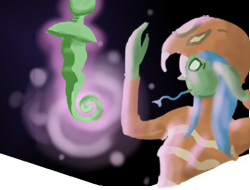
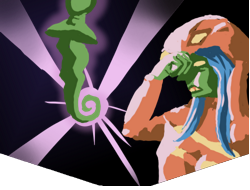
Beta art can now be added to cards.

diff --git a/src/main/java/theMarked/cards/Abjuration.java b/src/main/java/theMarked/cards/Abjuration.java
@@ -1,5 +1,9 @@
 package theMarked.cards;
 
+import basemod.ReflectionHacks;
+import basemod.abstracts.CustomCard;
+import com.badlogic.gdx.graphics.Texture;
+import com.badlogic.gdx.graphics.g2d.TextureAtlas;
 import com.megacrit.cardcrawl.actions.AbstractGameAction;
 import com.megacrit.cardcrawl.actions.common.ApplyPowerAction;
 import com.megacrit.cardcrawl.actions.common.DamageAction;
@@ -7,6 +11,7 @@ import com.megacrit.cardcrawl.cards.DamageInfo;
 import com.megacrit.cardcrawl.characters.AbstractPlayer;
 import com.megacrit.cardcrawl.core.CardCrawlGame;
 import com.megacrit.cardcrawl.dungeons.AbstractDungeon;
+import com.megacrit.cardcrawl.helpers.ImageMaster;
 import com.megacrit.cardcrawl.localization.CardStrings;
 import com.megacrit.cardcrawl.monsters.AbstractMonster;
 import com.megacrit.cardcrawl.powers.MinionPower;
@@ -19,7 +24,7 @@ import java.util.Iterator;
 
 import static theMarked.DefaultMod.makeCardPath;
 
-public class Abjuration extends AbstractDynamicCard {
+public class Abjuration extends AbstractMarkedCard {
 
     /*
      * Wiki-page: https://github.com/daviscook477/BaseMod/wiki/Custom-Cards
@@ -31,6 +36,7 @@ public class Abjuration extends AbstractDynamicCard {
 
     public static final String ID = DefaultMod.makeID(Abjuration.class.getSimpleName());
     public static final String IMG = makeCardPath("Attack_Abjuration.png");
+    public static final String IMG_beta = makeCardPath("Attack_Abjuration_beta.png");
 
     private static final CardStrings cardStrings = CardCrawlGame.languagePack.getCardStrings(ID);
     public static final String UPGRADE_DESCRIPTION = cardStrings.UPGRADE_DESCRIPTION;
@@ -55,9 +61,26 @@ public class Abjuration extends AbstractDynamicCard {
 
     public Abjuration() {
         super(ID, IMG, COST, TYPE, COLOR, RARITY, TARGET);
+        DefaultMod.loadJokeCardImage(this,IMG_beta);
         baseDamage = DAMAGE;
         baseMagicNumber = MAGIC_NUMBER;
         magicNumber = MAGIC_NUMBER;
+    }
+
+    public void loadBetaImage(String img) {
+        Texture cardTexture;
+        if (imgMap.containsKey(img)) {
+            cardTexture = (Texture)imgMap.get(img);
+        } else {
+            cardTexture = ImageMaster.loadImage(img);
+            imgMap.put(img, cardTexture);
+        }
+
+        cardTexture.setFilter(Texture.TextureFilter.Linear, Texture.TextureFilter.Linear);
+        int tw = cardTexture.getWidth();
+        int th = cardTexture.getHeight();
+        TextureAtlas.AtlasRegion cardImg = new TextureAtlas.AtlasRegion(cardTexture, 0, 0, tw, th);
+        ReflectionHacks.setPrivateInherited(this, CustomCard.class, "jokePortrait", cardImg);
     }
 
     // Actions the card should do.

diff --git a/src/main/java/theMarked/cards/AbstractMarkedCard.java b/src/main/java/theMarked/cards/AbstractMarkedCard.java
@@ -1,0 +1,47 @@
+package theMarked.cards;
+
+import basemod.abstracts.CustomCard;
+import com.badlogic.gdx.graphics.Texture;
+import com.megacrit.cardcrawl.cards.AbstractCard;
+import com.megacrit.cardcrawl.core.Settings;
+import com.megacrit.cardcrawl.unlock.UnlockTracker;
+import theMarked.DefaultMod;
+import theMarked.util.TextureLoader;
+
+import static com.megacrit.cardcrawl.core.CardCrawlGame.languagePack;
+
+public abstract class AbstractMarkedCard extends AbstractDynamicCard {
+    public String betaArtPath;
+
+    public AbstractMarkedCard(final String id,
+                               final String img,
+                               final int cost,
+                               final AbstractCard.CardType type,
+                               final AbstractCard.CardColor color,
+                               final AbstractCard.CardRarity rarity,
+                               final AbstractCard.CardTarget target) {
+
+        super(id, img, cost, type, color, rarity, target);
+    }
+
+    @Override
+    protected Texture getPortraitImage() {
+        if (Settings.PLAYTESTER_ART_MODE || UnlockTracker.betaCardPref.getBoolean(this.cardID, false)) {
+            if (this.textureImg == null) {
+                return null;
+            } else {
+                if (betaArtPath != null) {
+                    int endingIndex = betaArtPath.lastIndexOf(".");
+                    String newPath = betaArtPath.substring(0, endingIndex) + "_p" + betaArtPath.substring(endingIndex);
+                    System.out.println("Finding texture: " + newPath);
+
+                    Texture portraitTexture;
+                    portraitTexture = TextureLoader.getTexture(newPath);
+
+                    return portraitTexture;
+                }
+            }
+        }
+        return super.getPortraitImage();
+    }
+}

diff --git a/src/main/java/theMarked/DefaultMod.java b/src/main/java/theMarked/DefaultMod.java
@@ -6,16 +6,19 @@ import com.badlogic.gdx.Gdx;
 import com.badlogic.gdx.files.FileHandle;
 import com.badlogic.gdx.graphics.Color;
 import com.badlogic.gdx.graphics.Texture;
+import com.badlogic.gdx.graphics.g2d.TextureAtlas;
 import com.evacipated.cardcrawl.mod.stslib.Keyword;
 import com.evacipated.cardcrawl.modthespire.lib.SpireConfig;
 import com.evacipated.cardcrawl.modthespire.lib.SpireInitializer;
 import com.google.gson.Gson;
+import com.megacrit.cardcrawl.cards.AbstractCard;
 import com.megacrit.cardcrawl.core.Settings;
 import com.megacrit.cardcrawl.helpers.CardHelper;
 import com.megacrit.cardcrawl.helpers.FontHelper;
 import com.megacrit.cardcrawl.localization.*;
 import org.apache.logging.log4j.LogManager;
 import org.apache.logging.log4j.Logger;
+import theMarked.cards.AbstractMarkedCard;
 import theMarked.characters.TheMarked;
 import theMarked.potions.ChargePotion;
 import theMarked.potions.LevitatePotion;
@@ -506,7 +509,19 @@ public class DefaultMod implements
             }
         }
     }
-    
+
+    public static void loadJokeCardImage(AbstractCard card, String img) {
+        if (card instanceof AbstractMarkedCard) {
+            ((AbstractMarkedCard) card).betaArtPath = img;
+        }
+        Texture cardTexture;
+        cardTexture = TextureLoader.getTexture(img);
+        cardTexture.setFilter(Texture.TextureFilter.Linear, Texture.TextureFilter.Linear);
+        int tw = cardTexture.getWidth();
+        int th = cardTexture.getHeight();
+        TextureAtlas.AtlasRegion cardImg = new TextureAtlas.AtlasRegion(cardTexture, 0, 0, tw, th);
+        ReflectionHacks.setPrivate(card, AbstractCard.class, "jokePortrait", cardImg);
+    }
     // ================ /LOAD THE KEYWORDS/ ===================    
     
     // this adds "ModName:" before the ID of any card/relic/power etc.

diff --git a/src/main/java/theMarked/cards/ShockingTouch.java b/src/main/java/theMarked/cards/ShockingTouch.java
@@ -39,7 +39,7 @@ public class ShockingTouch extends AbstractDynamicCard {
 
     private static final int COST = 0;
     private static final int DAMAGE = 10;
-    private static final int UPGRADE_PLUS_DMG = 4;
+    private static final int UPGRADE_PLUS_DMG = 5;
     private static final int MAGIC = 1;
     private static final int UPGRADE_PLUS_MAGIC = 1;
 

diff --git a/src/main/java/theMarked/cards/SwordAndMagic.java b/src/main/java/theMarked/cards/SwordAndMagic.java
@@ -41,7 +41,7 @@ public class SwordAndMagic extends AbstractDynamicCard {
     public static final CardColor COLOR = TheMarked.Enums.MARKED_GENTA;
 
     private static final int COST = 1;
-    private static final int DAMAGE = 6;
+    private static final int DAMAGE = 5;
     private static final int UPGRADE_PLUS_DMG = 3;
 
     public int specialDamage;
